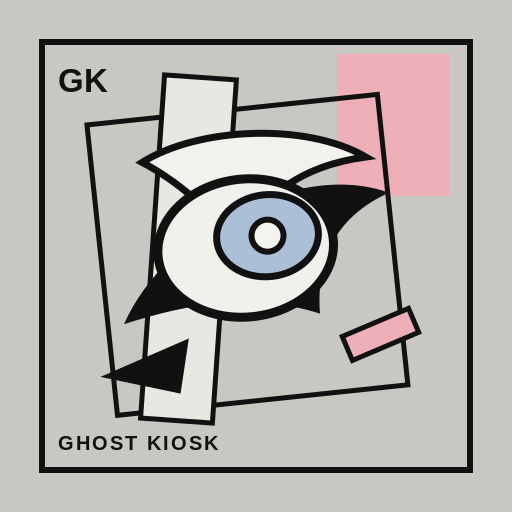
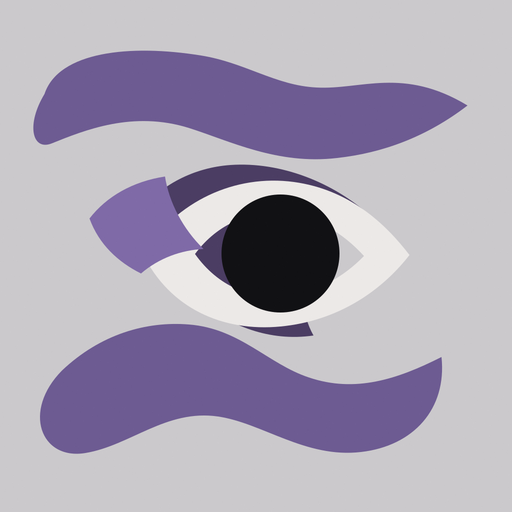
Add files via upload

diff --git a/style.css b/style.css
@@ -1,18 +1,18 @@
 [hidden]{display:none!important}
 :root{
-  --paper:#c9c7c2;
-  --paper2:#d5d3ce;
-  --ink:#111111;
-  --soft-ink:rgba(17,17,17,.50);
-  --hair:rgba(17,17,17,.18);
-  --ghost:rgba(255,255,255,.30);
-  --accent:239,174,184;
-  --accent2:168,186,213;
-  --canvas-bed:#b9b8b4;
+  --paper:#cbc9cc;
+  --paper2:#d8d6da;
+  --ink:#111114;
+  --soft-ink:rgba(17,17,20,.50);
+  --hair:rgba(17,17,20,.18);
+  --ghost:rgba(255,255,255,.31);
+  --accent:176,158,206;
+  --accent2:105,86,145;
+  --canvas-bed:#b9b7bb;
 }
-html[data-mode="occult"]{--accent:159,181,158;--accent2:131,154,170;--canvas-bed:#b9bbb6}
-html[data-mode="ghost"]{--accent:183,204,214;--accent2:196,177,206;--canvas-bed:#b9bdbe}
-html[data-mode="reassemble"]{--accent:221,180,153;--accent2:171,186,159;--canvas-bed:#bdbbb6}
+html[data-mode="occult"]{--accent:126,103,148;--accent2:70,57,84;--canvas-bed:#b8b6ba}
+html[data-mode="ghost"]{--accent:194,185,214;--accent2:114,102,142;--canvas-bed:#bbb9be}
+html[data-mode="reassemble"]{--accent:151,132,174;--accent2:82,68,101;--canvas-bed:#b9b7bb}
 *{box-sizing:border-box}
 html,body{margin:0;min-height:100%;background:var(--paper);color:var(--ink);font-family:Arial,Helvetica,"Helvetica Neue",sans-serif;-webkit-font-smoothing:antialiased}
 body{min-height:100svh;overflow-x:hidden;overscroll-behavior-y:none}
@@ -43,10 +43,8 @@ button,input,select{font:inherit}button{-webkit-tap-highlight-color:transparent}
 .canvas-mount canvas{display:block;max-width:100%;max-height:100%;width:auto!important;height:auto!important;box-shadow:0 18px 50px rgba(0,0,0,.12)}
 
 .empty-state{position:absolute;inset:0;z-index:3;display:grid;place-items:center;overflow:hidden}
-.optical-glyph{width:min(48vw,430px);aspect-ratio:1;opacity:.96;transform:rotate(-1.5deg);filter:drop-shadow(0 12px 24px rgba(0,0,0,.07));animation:glyphFloat 8s ease-in-out infinite alternate}
-.optical-glyph svg{width:100%;height:100%;overflow:visible}.glyph-back rect:first-child{fill:none;stroke:rgba(17,17,17,.34);stroke-width:1.5}.glyph-back rect:last-child{fill:rgba(var(--accent),.44)}
-.glyph-core ellipse:first-child{fill:rgba(255,255,255,.46);stroke:#111;stroke-width:6}.glyph-core ellipse:nth-child(2){fill:rgba(var(--accent2),.40);stroke:#111;stroke-width:4}.glyph-core path:first-of-type{fill:#111}.glyph-core path:last-of-type{fill:rgba(255,255,255,.56);stroke:#111;stroke-width:3}
-.glyph-detail circle{fill:#f2f1ec;stroke:#111;stroke-width:4}.glyph-detail rect{fill:rgb(var(--accent));stroke:#111;stroke-width:3}.glyph-detail path{fill:#111}
+.optical-glyph{width:min(48vw,430px);aspect-ratio:1;opacity:.97;transform:rotate(-1deg);filter:drop-shadow(0 13px 26px rgba(17,17,20,.08));animation:glyphFloat 8s ease-in-out infinite alternate}
+.optical-glyph img{display:block;width:100%;height:100%;object-fit:contain;border-radius:24%;}
 @keyframes glyphFloat{0%{transform:translate(-5px,7px) rotate(-2.4deg)}100%{transform:translate(7px,-6px) rotate(1.2deg)}}
 .open-primary{appearance:none;position:absolute;left:50%;bottom:9%;transform:translateX(-50%);border:0;background:none;color:#111;font-size:12px;letter-spacing:.14em;font-weight:900;padding:14px 18px;cursor:pointer}
 .open-primary:after{content:"";position:absolute;left:18px;right:18px;bottom:7px;height:2px;background:rgb(var(--accent))}
@@ -76,7 +74,7 @@ input[type=range]{appearance:none;width:100%;height:18px;background:transparent;
 .mutation-pulse .mutation-veil{animation:mutationPulse 235ms cubic-bezier(.2,.7,.2,1)}.mutation-pulse .wordmark{animation:wordShift 235ms ease-out}
 @keyframes mutationPulse{0%{opacity:.76;transform:translateX(-8%)}45%{opacity:.25}100%{opacity:0;transform:translateX(9%)}}
 @keyframes wordShift{0%{transform:translateX(0)}36%{transform:translateX(5px)}100%{transform:translateX(0)}}
-.render-overlay{position:absolute;z-index:6;left:14px;bottom:12px;display:flex;align-items:center;gap:7px;background:rgba(201,199,194,.80);padding:5px 7px;color:#111;font-size:8px;letter-spacing:.12em;font-weight:800}.activity-indicator{width:7px;height:7px;background:#111;animation:pulse 1s infinite}@keyframes pulse{50%{opacity:.20}}
+.render-overlay{position:absolute;z-index:6;left:14px;bottom:12px;display:flex;align-items:center;gap:7px;background:rgba(203,201,204,.82);padding:5px 7px;color:#111;font-size:8px;letter-spacing:.12em;font-weight:800}.activity-indicator{width:7px;height:7px;background:#111;animation:pulse 1s infinite}@keyframes pulse{50%{opacity:.20}}
 .error-panel{position:fixed;z-index:20;left:16px;right:16px;bottom:16px;padding:12px 14px;background:rgba(205,188,190,.95);border:1px solid rgba(17,17,17,.24);font-size:9px;line-height:1.5;color:#111}.error-panel strong{margin-right:12px}
 
 @media(max-width:820px){
@@ -86,7 +84,7 @@ input[type=range]{appearance:none;width:100%;height:18px;background:transparent;
   .image-world{height:58svh;min-height:360px;flex:none;border-right:0;border-bottom:1px solid rgba(17,17,17,.26);background:var(--canvas-bed)}
   .canvas-mount{padding:0}.canvas-mount canvas{box-shadow:none}
   .optical-glyph{width:min(76vw,330px)}.open-primary{bottom:7%;font-size:10px}
-  .control-sheet{padding:0 14px;display:flex;background:rgba(201,199,194,.76);backdrop-filter:blur(12px)}.control-sheet:before{display:none}
+  .control-sheet{padding:0 14px;display:flex;background:rgba(203,201,204,.78);backdrop-filter:blur(12px)}.control-sheet:before{display:none}
   .modes{grid-template-columns:repeat(4,1fr);border-bottom:1px solid rgba(17,17,17,.26)}.mode{min-height:50px;border-right:1px solid rgba(17,17,17,.15);border-bottom:0;padding:13px 5px;text-align:center;background:transparent}.mode:last-child{border-right:0}.mode span{font-size:9px;letter-spacing:-.02em}.mode.active{transform:translateY(2px)}.mode.active span{text-underline-offset:5px}
   .mutate-button{height:91px;padding:19px 1px 15px}.mutate-word{font-size:48px}.mutate-mark{width:42px;height:42px;margin-right:2px}.mutate-mark i:first-child{border-width:2px}.mutate-mark i:last-child{width:23px;height:23px;top:11px;border-width:2px}
   .utility{height:42px;font-size:8px;padding:0 1px}.edit-panel{padding:18px 1px 3px;gap:15px}.parameter{gap:7px}.export-row{height:33px;margin-top:1px}

diff --git a/index.html b/index.html
@@ -3,7 +3,7 @@
 <head>
   <meta charset="utf-8">
   <meta name="viewport" content="width=device-width, initial-scale=1, viewport-fit=cover, user-scalable=no">
-  <meta name="theme-color" content="#c9c7c2">
+  <meta name="theme-color" content="#cbc9cc">
   <meta name="mobile-web-app-capable" content="yes">
   <meta name="apple-mobile-web-app-title" content="GHOST KIOSK">
   <meta name="apple-mobile-web-app-capable" content="yes">
@@ -23,7 +23,7 @@
         <span class="ghost-word">GHOST</span>
         <span class="kiosk-word">KIOSK</span>
       </div>
-      <div class="issue-mark" aria-hidden="true"><b>GK</b><span>17.2.1</span></div>
+      <div class="issue-mark" aria-hidden="true"><b>GK</b><span>17.2.2</span></div>
       <button id="openPhotoTop" class="open-top" type="button" aria-label="写真を選択">OPEN</button>
     </header>
 
@@ -32,23 +32,7 @@
 
       <div id="emptyState" class="empty-state">
         <div class="optical-glyph" aria-hidden="true">
-          <svg viewBox="0 0 320 320" role="img" aria-label="">
-            <g class="glyph-back">
-              <rect x="58" y="58" width="204" height="204" rx="2" transform="rotate(-7 160 160)"/>
-              <rect x="94" y="36" width="52" height="248" rx="1" transform="rotate(10 120 160)"/>
-            </g>
-            <g class="glyph-core">
-              <ellipse cx="154" cy="158" rx="62" ry="50"/>
-              <ellipse cx="171" cy="151" rx="37" ry="30"/>
-              <path d="M74 194 C108 133 205 100 251 128 C217 142 202 166 203 203 C159 185 116 188 74 194 Z"/>
-              <path d="M101 92 C139 75 206 78 239 103 C198 106 170 120 150 150 C136 126 119 108 101 92 Z"/>
-            </g>
-            <g class="glyph-detail">
-              <circle cx="171" cy="151" r="12"/>
-              <rect x="218" y="210" width="44" height="16" transform="rotate(-17 240 218)"/>
-              <path d="M57 228 L114 210 L106 244 Z"/>
-            </g>
-          </svg>
+          <img src="./icons/icon-512.png" alt="">
         </div>
         <button id="openPhotoPrimary" class="open-primary" type="button">OPEN</button>
       </div>

diff --git a/sw.js b/sw.js
@@ -1,4 +1,4 @@
-const CACHE='ghost-kiosk-v1.7.2.1';
+const CACHE='ghost-kiosk-v1.7.2.2';
 const LOCAL=['./','./index.html','./style.css','./sketch.js','./manifest.webmanifest','./icons/icon-180.png','./icons/icon-192.png','./icons/icon-512.png'];
 const P5_URL='https://cdn.jsdelivr.net/npm/p5@1.11.13/lib/p5.min.js';
 

diff --git a/sketch.js b/sketch.js
@@ -1,7 +1,7 @@
 'use strict';
 window.PM_SCRIPT_LOADED = true;
 const PM = {
-  version: 'v1.7.2.1',
+  version: 'v1.7.2.2',
   previewMobile: 900,
   previewDesktop: 1180,
   sourceMaxPixels: 9000000,
